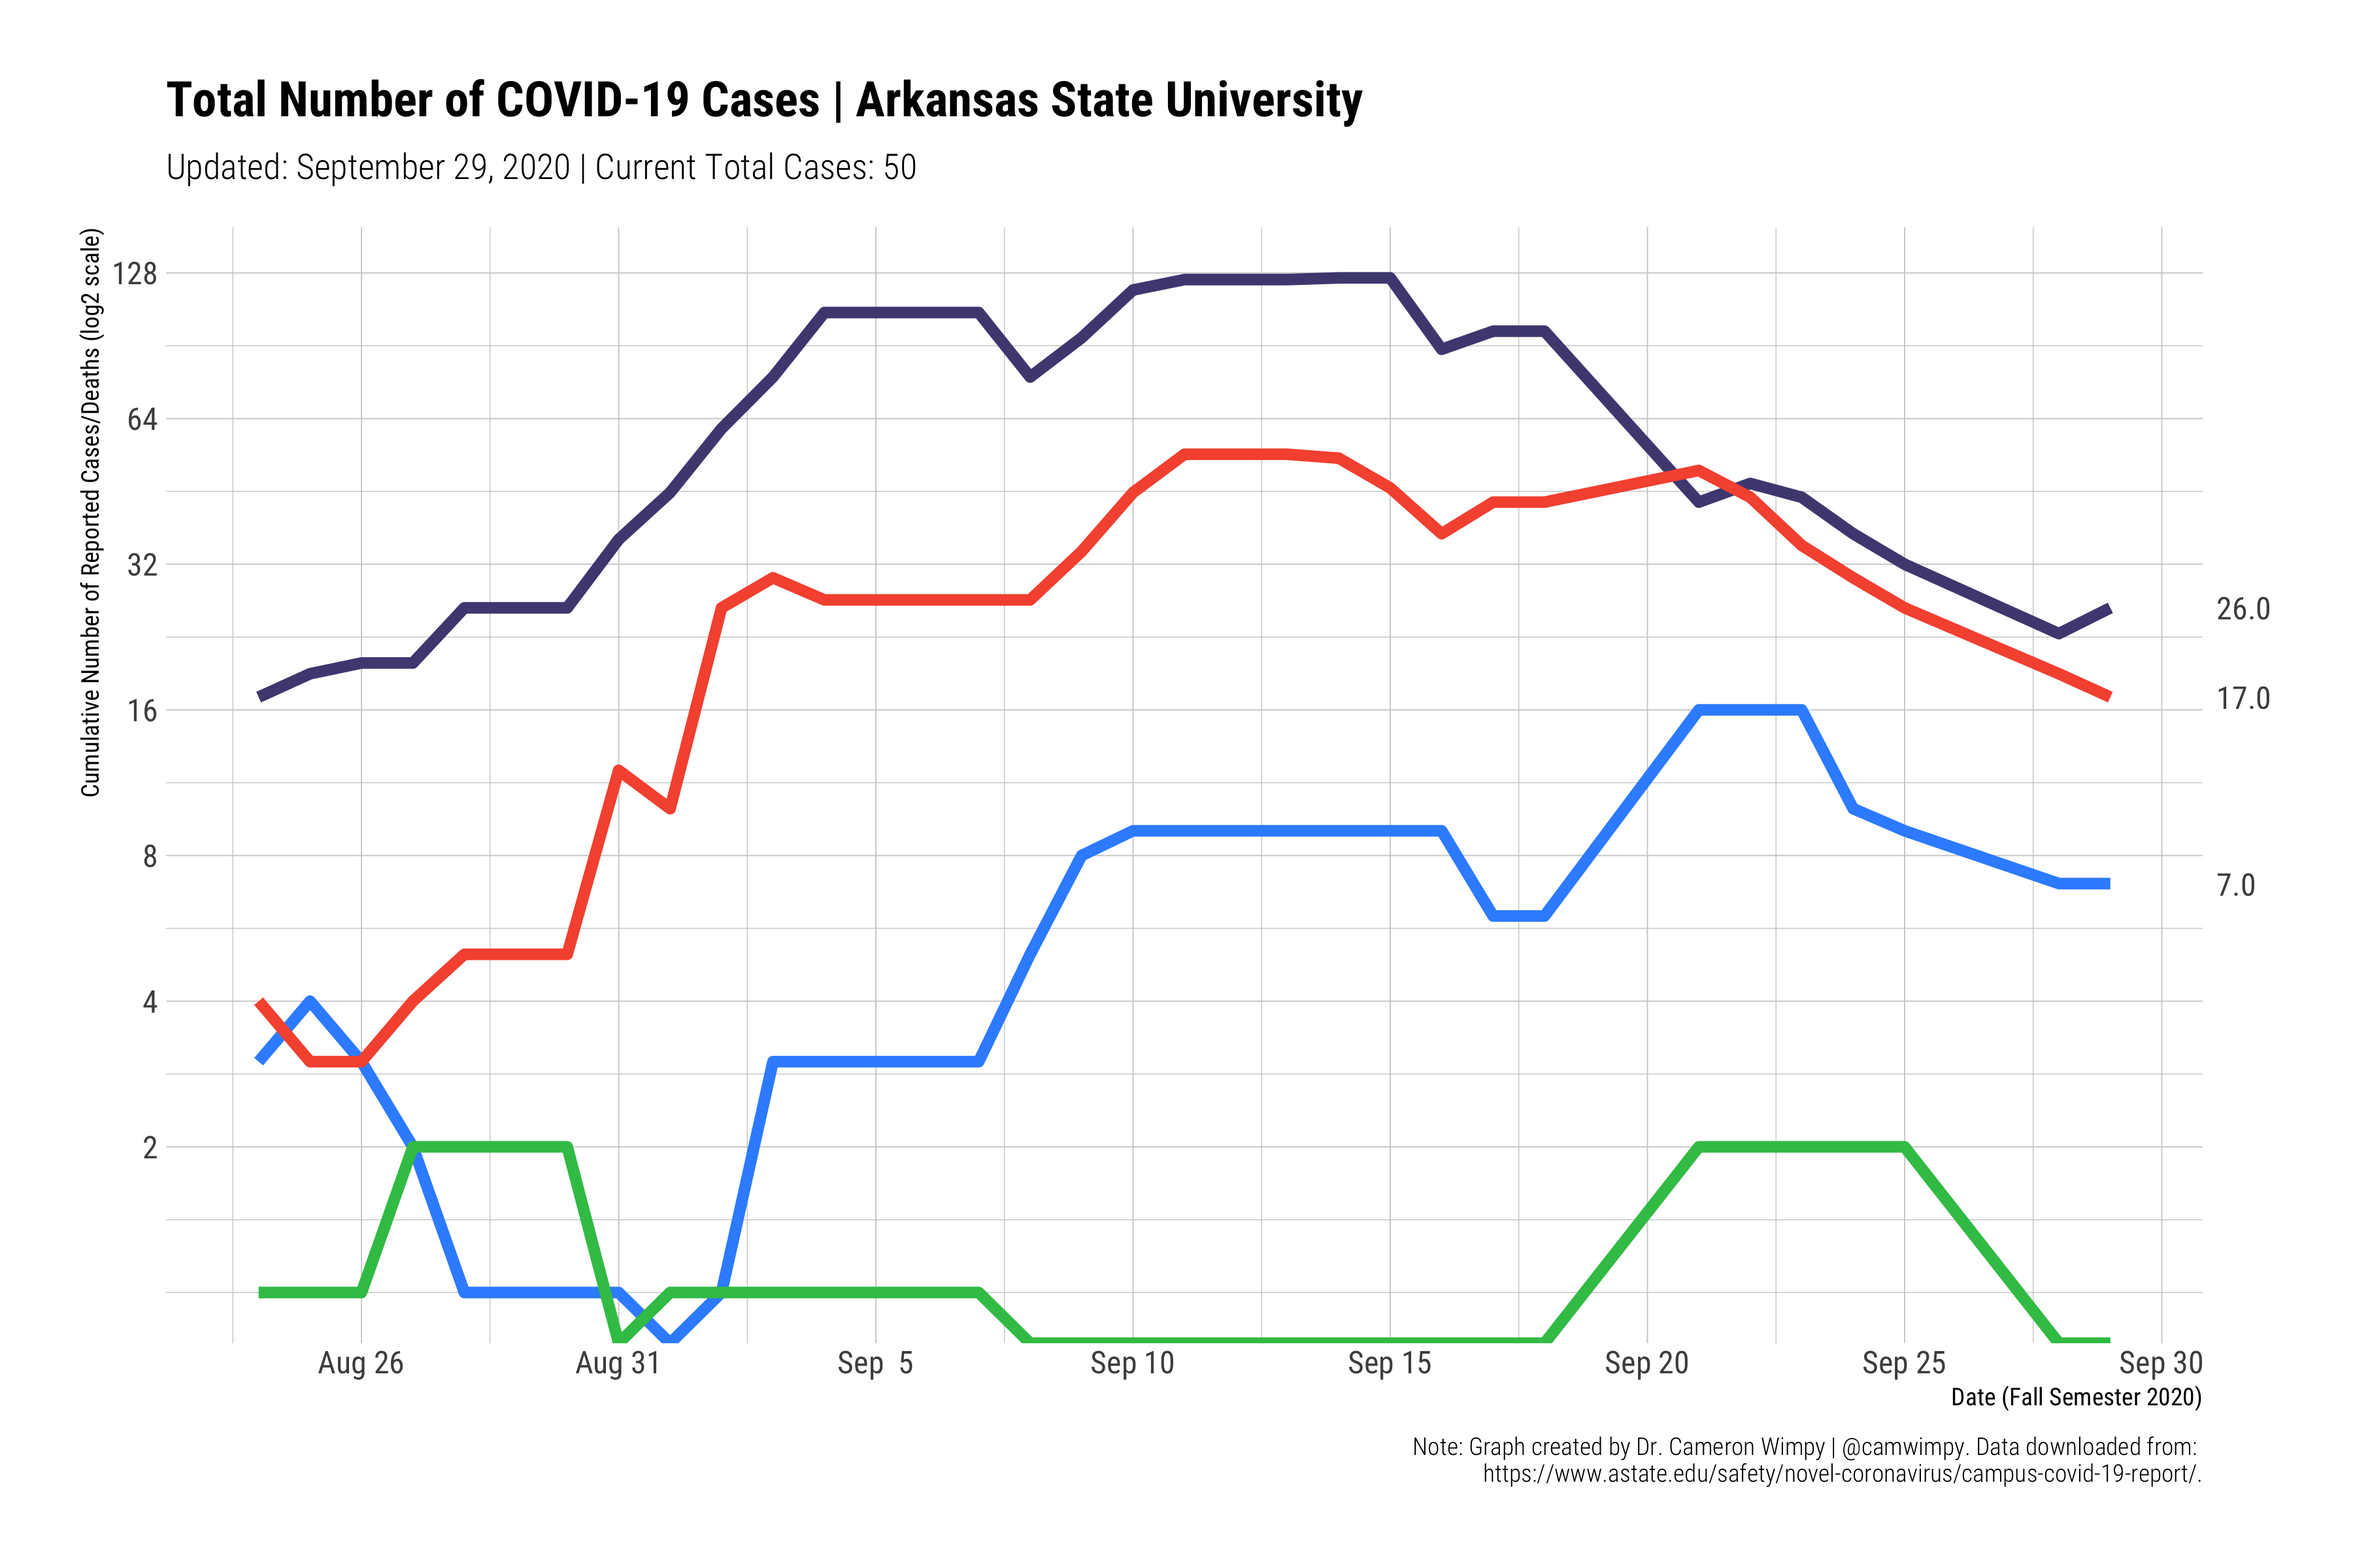
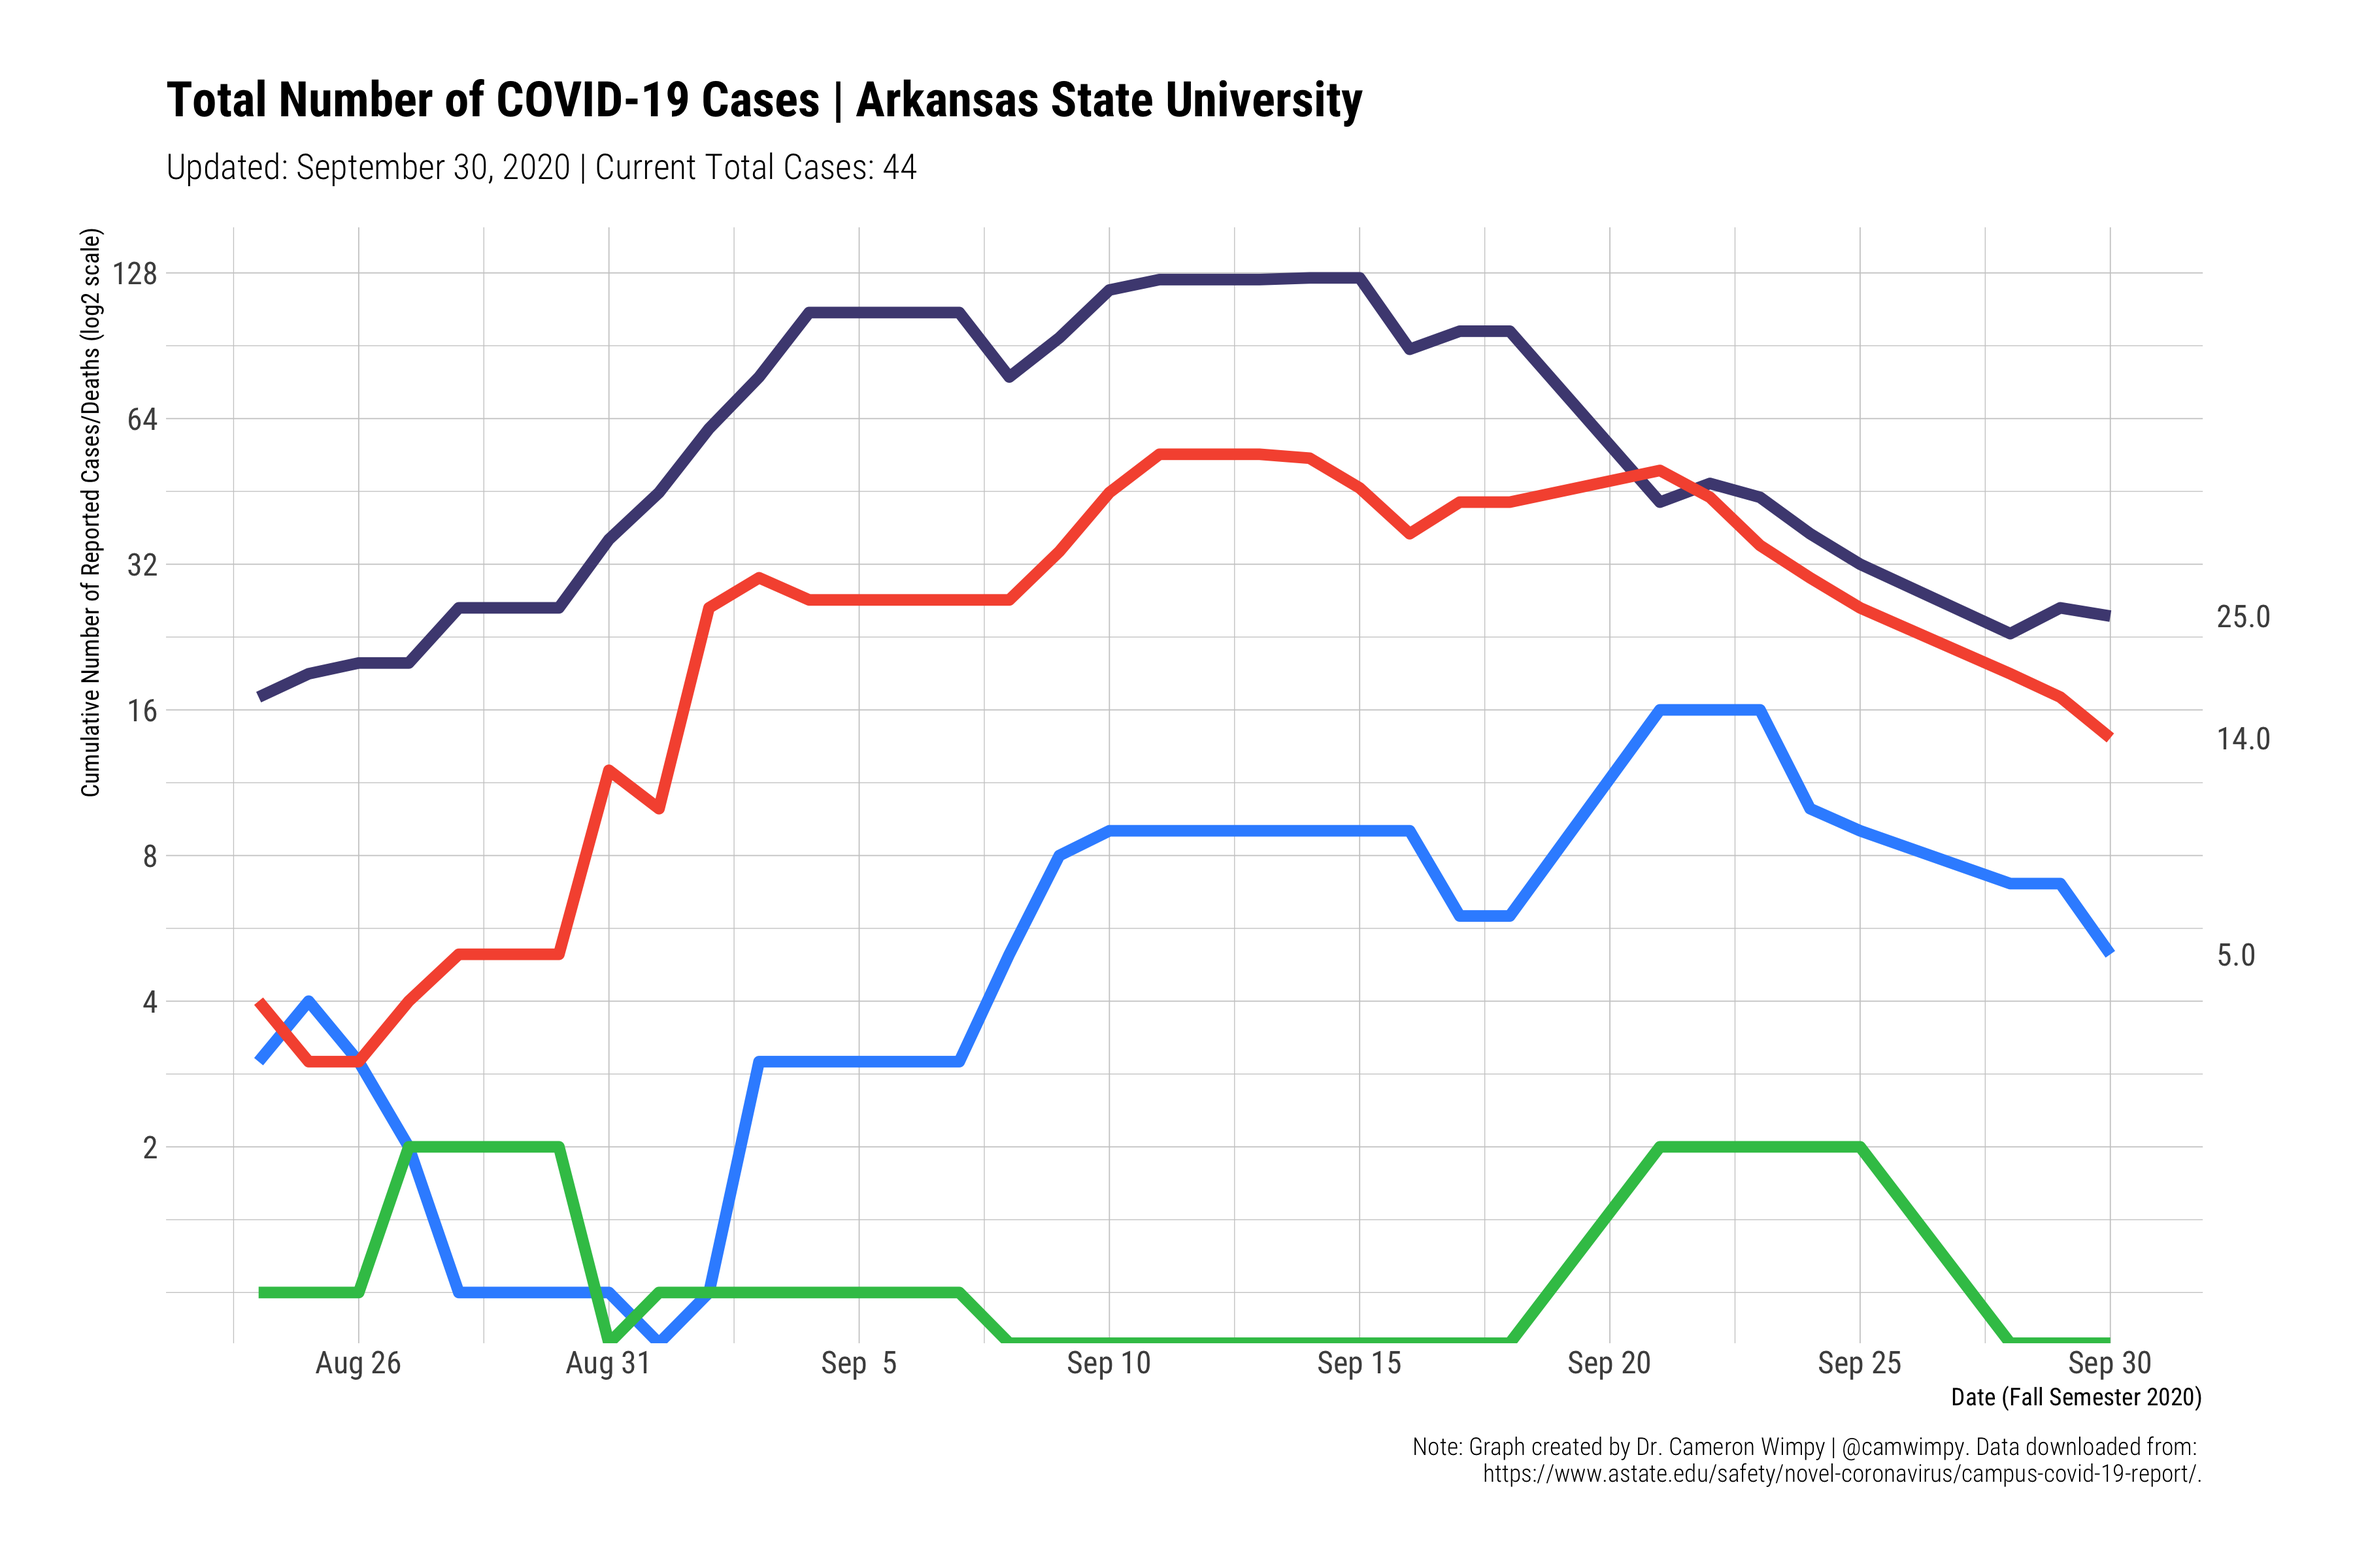
added updates

diff --git a/README.md b/README.md
@@ -10,4 +10,4 @@ This repo is dedicated to making graphs to track the Covid-19 outbreak at Arkans
 
 ![](images/bar.png)
 
-### Updated: September 29, 2020
+### Updated: September 30, 2020
